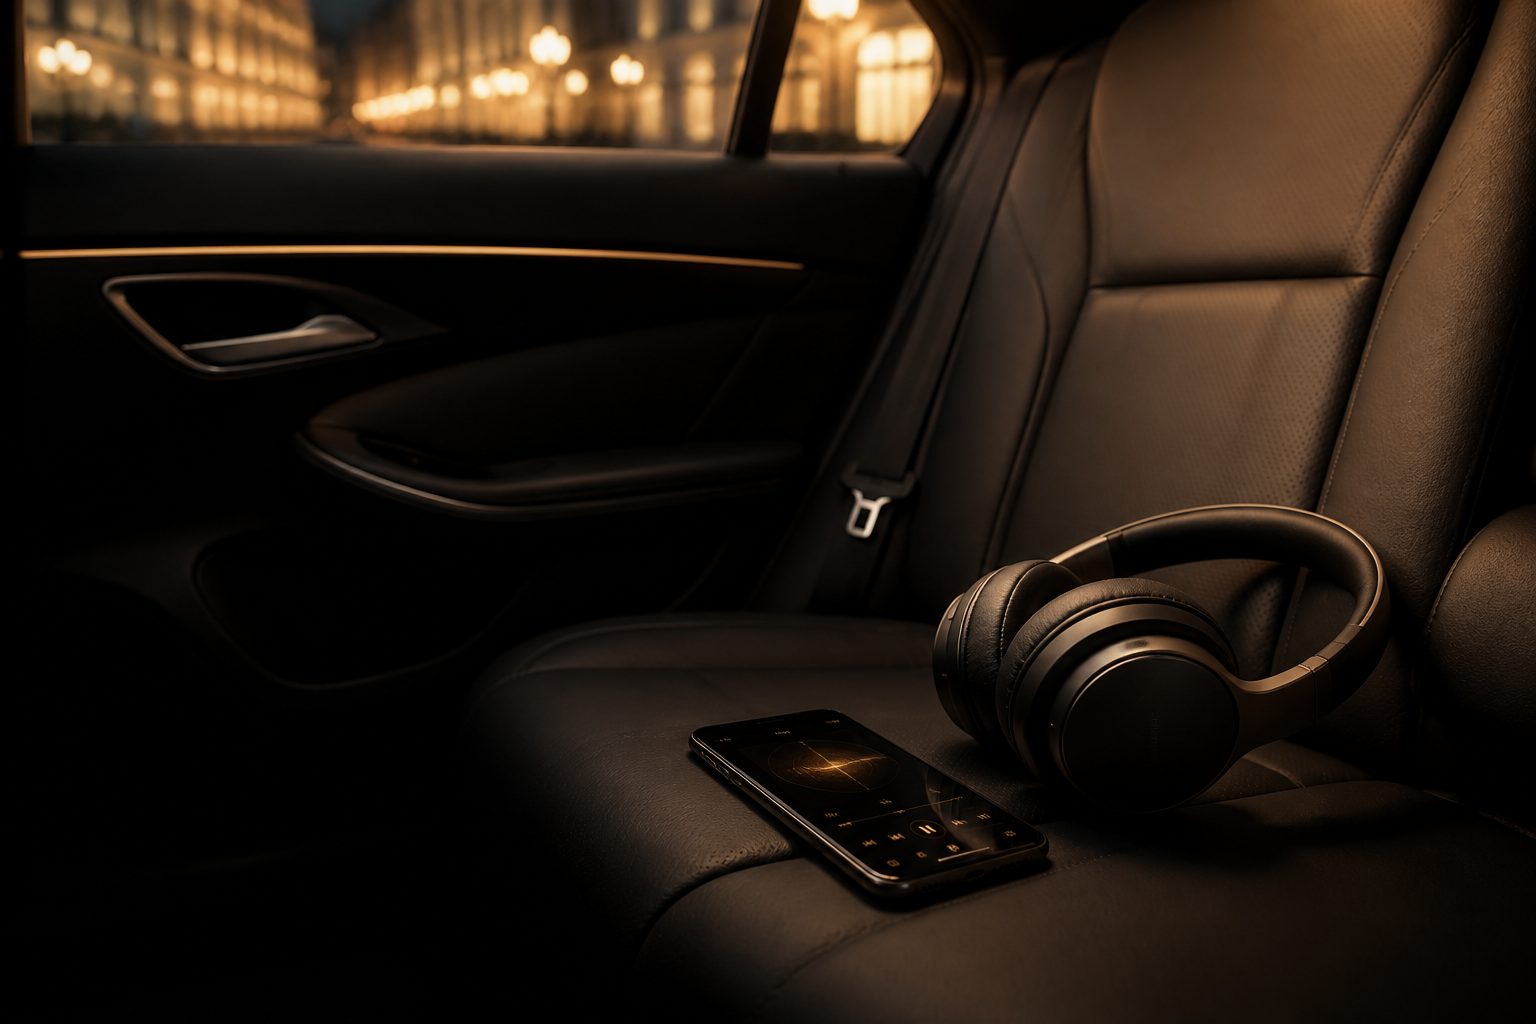
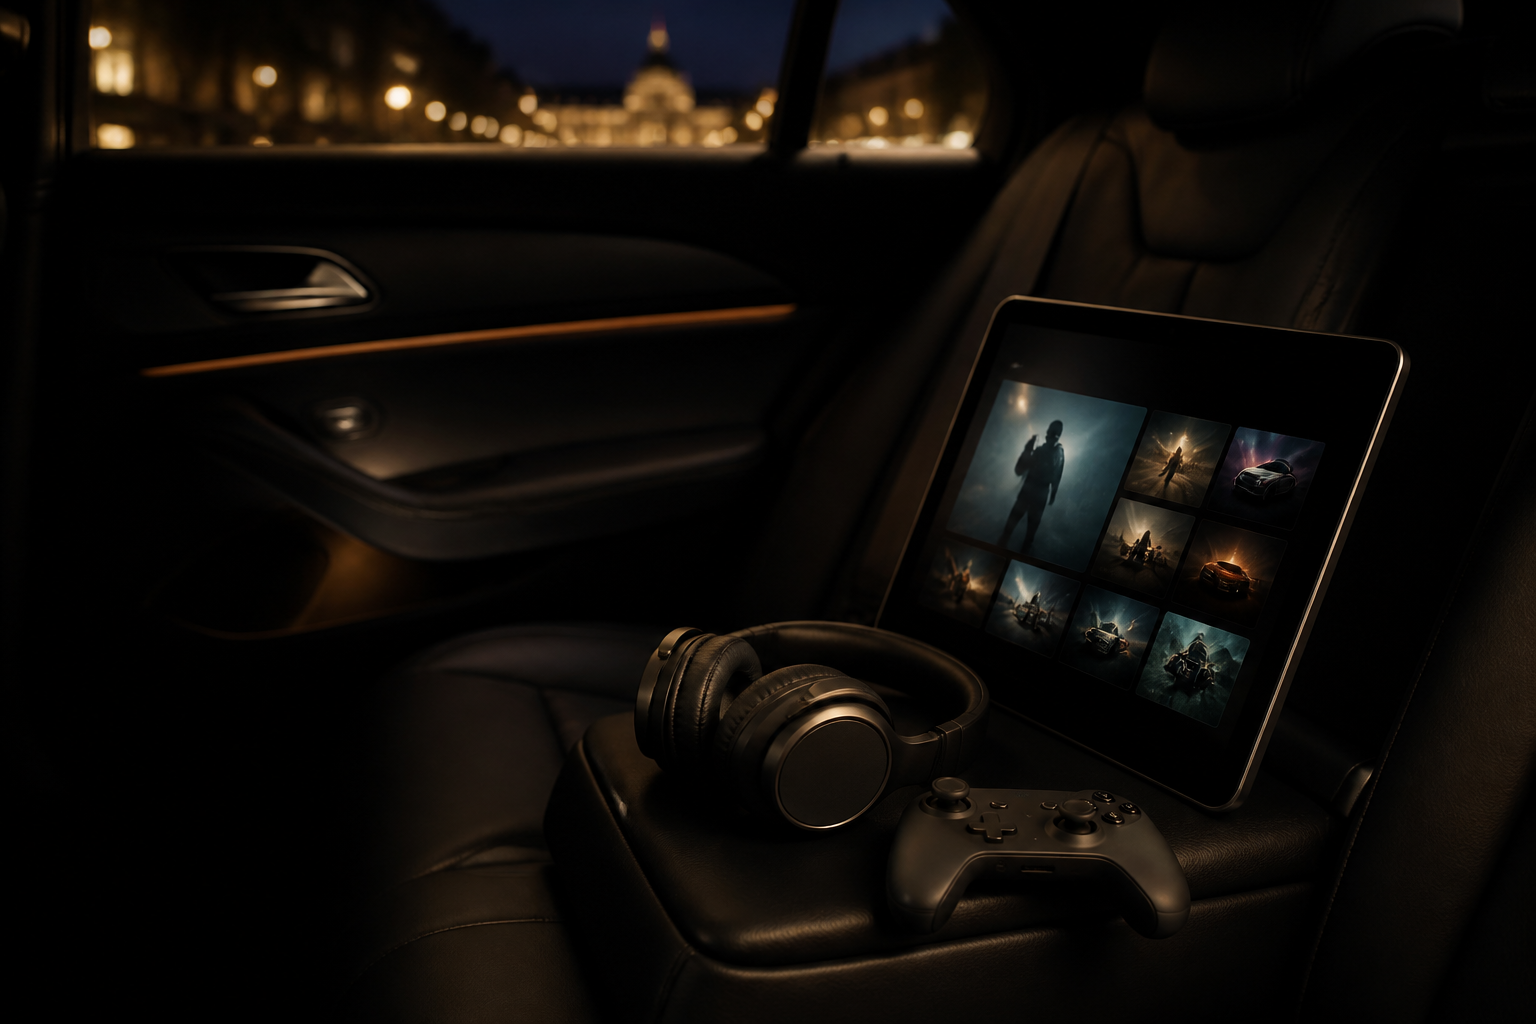
modifs diverses

diff --git a/src/features/vtc/useVtcLocation.ts b/src/features/vtc/useVtcLocation.ts
@@ -14,25 +14,46 @@ export function useVtcLocation() {
   const [isLocating, setIsLocating] = useState(true);
 
   useEffect(() => {
+    let active = true;
     if (!("geolocation" in navigator)) {
       window.queueMicrotask(() => setIsLocating(false));
       return;
     }
-    navigator.geolocation.getCurrentPosition(
-      ({ coords }) => {
-        if (!isWithinFrenchDepartments(coords.latitude, coords.longitude)) {
-          setLocation(DEFAULT_VTC_LOCATION);
-          setIsLocating(false);
-          return;
-        }
-        void reverseGeocodeVtcLocation(coords.latitude, coords.longitude)
-          .then(setLocation)
-          .catch(() => undefined)
-          .finally(() => setIsLocating(false));
-      },
-      () => setIsLocating(false),
-      { enableHighAccuracy: true, timeout: 8_000, maximumAge: 30_000 },
-    );
+
+    const finish = () => {
+      if (active) setIsLocating(false);
+    };
+    const usePosition = ({ coords }: GeolocationPosition) => {
+      if (!active) return;
+      if (!isWithinFrenchDepartments(coords.latitude, coords.longitude)) {
+        setLocation(DEFAULT_VTC_LOCATION);
+        finish();
+        return;
+      }
+      void reverseGeocodeVtcLocation(coords.latitude, coords.longitude)
+        .then((nextLocation) => {
+          if (active) setLocation(nextLocation);
+        })
+        .catch(() => undefined)
+        .finally(finish);
+    };
+    const tryWifiLocation = () => {
+      navigator.geolocation.getCurrentPosition(usePosition, finish, {
+        enableHighAccuracy: false,
+        timeout: 20_000,
+        maximumAge: 10 * 60_000,
+      });
+    };
+
+    navigator.geolocation.getCurrentPosition(usePosition, tryWifiLocation, {
+      enableHighAccuracy: true,
+      timeout: 8_000,
+      maximumAge: 30_000,
+    });
+
+    return () => {
+      active = false;
+    };
   }, []);
 
   return { location, isLocating };

diff --git a/src/features/vtc/vtc.module.css b/src/features/vtc/vtc.module.css
@@ -2122,9 +2122,27 @@
   z-index: 4;
   top: max(0.75rem, env(safe-area-inset-top));
   left: max(clamp(1.5rem, 4vw, 4.5rem), env(safe-area-inset-left));
-  width: 3rem;
-  height: 3rem;
+  width: 4.5rem;
+  height: 4.5rem;
+  min-width: 4.5rem;
+  min-height: 4.5rem;
+  border: 0;
   border-radius: 50%;
+  background: transparent;
+  transform: translate(-0.75rem, -0.75rem);
+  touch-action: manipulation;
+}
+.floatingHome::before {
+  position: absolute;
+  inset: 0.75rem;
+  border: 1px solid var(--vtc-line);
+  border-radius: 50%;
+  background: rgba(255, 255, 255, 0.06);
+  content: "";
+}
+.floatingHome svg {
+  position: relative;
+  z-index: 1;
 }
 .utilityControls {
   position: fixed;
